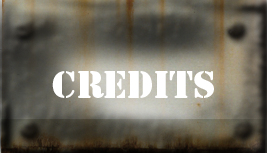
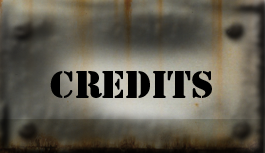
cambiadas imagenes del menu Signed-off-by: unknown <Jose@.(none)>

diff --git a/src/Screens/MainMenuScreen.java b/src/Screens/MainMenuScreen.java
@@ -61,12 +61,12 @@ private List<Boton> botones; // botones del menu
         Image img6 = null;
 
         try {
-                img = Lienzo.cargarImagen("imagenes/play-pulsado.png");
-                img2 = Lienzo.cargarImagen("imagenes/play-sobre.png");
+                img = Lienzo.cargarImagen("imagenes/iplay.png");
+                img2 = Lienzo.cargarImagen("imagenes/iplay-pulsado.png");
                 img3 = Lienzo.cargarImagen("imagenes/iexit.png");
-                img4 = Lienzo.cargarImagen("imagenes/exit-pulsado.png");
-                img5 = Lienzo.cargarImagen("imagenes/credits-sobre.png");
-                img6 = Lienzo.cargarImagen("imagenes/credits-pulsado.png");
+                img4 = Lienzo.cargarImagen("imagenes/iexit-pulsado.png");
+                img5 = Lienzo.cargarImagen("imagenes/icredits.png");
+                img6 = Lienzo.cargarImagen("imagenes/icredits-pulsado.png");
             } catch (Exception e) {
                 e.printStackTrace();
             }
